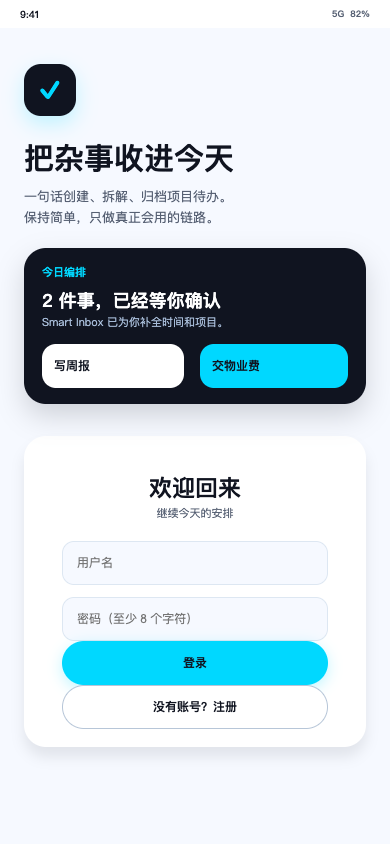
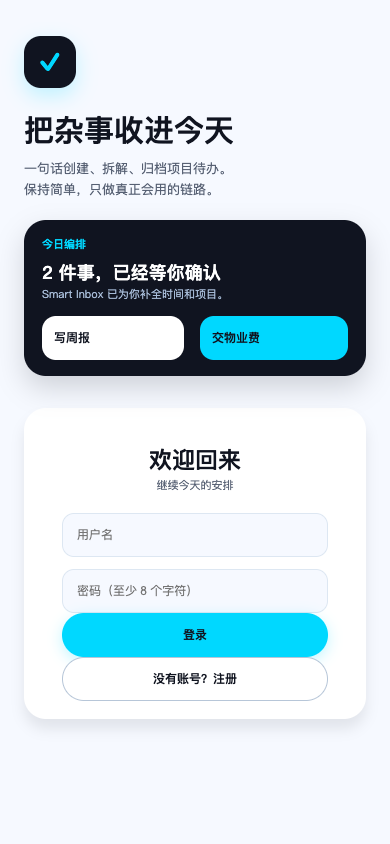
fix(ui): 移除正式页模拟手机状态栏

Changed region(s): [[0.0615, 0.0, 0.9538, 0.6161], [0.0923, 0.6161, 0.9231, 0.8626], [0.8615, 0.0, 0.9538, 0.0308]]

diff --git a/tests/e2e/h2-ui-feedback.spec.ts b/tests/e2e/h2-ui-feedback.spec.ts
@@ -6,21 +6,12 @@ async function fillTaroField(page: Page, label: string, value: string): Promise<
 
 test.use({ viewport: { width: 390, height: 844 } });
 
-test('H2 审查反馈中的文字、分隔与任务行布局可见且居中', async ({ page }) => {
+test('正式页面不显示模拟状态栏，文字、分隔与任务行布局可见且居中', async ({ page }) => {
   test.setTimeout(60_000);
   await page.goto('/');
   const origin = new URL(page.url()).origin;
 
-  const statusBarOffset = await page.locator('.ei-status-bar').evaluate((bar) => {
-    const text = bar.firstElementChild;
-    if (!(text instanceof HTMLElement)) return Number.POSITIVE_INFINITY;
-    const barBounds = bar.getBoundingClientRect();
-    const textBounds = text.getBoundingClientRect();
-    return Math.abs(
-      textBounds.top + textBounds.height / 2 - (barBounds.top + barBounds.height / 2),
-    );
-  });
-  expect(statusBarOffset).toBeLessThanOrEqual(0.5);
+  await expect(page.locator('.ei-status-bar')).toHaveCount(0);
 
   const loginInputOffset = await page.getByLabel('用户名').evaluate((control) => {
     const input = control.querySelector('input');
@@ -40,10 +31,29 @@ test('H2 审查反馈中的文字、分隔与任务行布局可见且居中', as
   const suffix = Date.now().toString(36);
   await page.getByRole('button', { name: '注册新账号' }).click();
   await expect(page.getByText('创建账号', { exact: true })).toBeVisible();
+  await expect(page.locator('.ei-status-bar')).toHaveCount(0);
   await fillTaroField(page, '用户名', `visual_${suffix}`);
   await fillTaroField(page, '密码', 'valid-password');
   await page.getByRole('button', { name: '注册并登录' }).click();
   await expect(page.getByRole('button', { name: '管理项目' })).toBeVisible();
+  await expect(page.locator('.ei-status-bar')).toHaveCount(0);
+  const taskPageLayout = await page.evaluate(() => {
+    const addButton = document.querySelector('.addButton');
+    const scroll = document.querySelector('.productionScroll');
+    return {
+      addTop: addButton?.getBoundingClientRect().top,
+      horizontalOverflow:
+        document.documentElement.scrollWidth > document.documentElement.clientWidth,
+      scrollHeight: scroll?.getBoundingClientRect().height,
+      viewportHeight: window.innerHeight,
+    };
+  });
+  expect(taskPageLayout).toEqual({
+    addTop: 24,
+    horizontalOverflow: false,
+    scrollHeight: 844,
+    viewportHeight: 844,
+  });
 
   const projectName = `视觉项目中的超长名称${suffix.slice(-4)}`;
   const projectResponse = await page.request.post('/api/v1/projects', {
@@ -114,6 +124,10 @@ test('H2 审查反馈中的文字、分隔与任务行布局可见且居中', as
   expect(rowVisuals?.titleRightGap).toBeGreaterThanOrEqual(0);
   expect(rowVisuals?.titleTruncated).toBe(true);
   expect(rowVisuals?.projectTruncated).toBe(true);
+  await page.screenshot({
+    animations: 'disabled',
+    path: 'docs/quality/screenshots/status-bar-removed-task-home-390x844.png',
+  });
 
   await page.getByRole('button', { name: '新增待办' }).click();
   await expect(page.getByLabel('待办描述').locator('textarea')).toBeVisible();

diff --git a/apps/client/src/components/auth-screen.tsx b/apps/client/src/components/auth-screen.tsx
@@ -1,5 +1,5 @@
 import { loginWithUsernameSchema, registerWithUsernameSchema } from '@ai-schedule/contracts';
-import { AppShell, ElectricButton, StatusBar } from '@ai-schedule/ui';
+import { AppShell, ElectricButton } from '@ai-schedule/ui';
 import { useMutation } from '@tanstack/react-query';
 import { Form, Input, Text, View } from '@tarojs/components';
 import { useState } from 'react';
@@ -89,7 +89,6 @@ export function AuthScreen({ mode }: { mode: AuthMode }) {
 
   return (
     <AppShell className={`loginScreen ${isRegister ? 'registerScreen' : ''}`}>
-      <StatusBar />
       <View className="loginHero">
         <View aria-hidden className="brandMark">
           ✓

diff --git a/apps/client/src/components/task-home-screen.tsx b/apps/client/src/components/task-home-screen.tsx
@@ -11,7 +11,6 @@ import {
   ElectricButton,
   NeutralPressButton,
   SmartInboxCard,
-  StatusBar,
   TaskRow,
   UndoToast,
 } from '@ai-schedule/ui';
@@ -372,7 +371,6 @@ export function TaskHomeScreen() {
 
   return (
     <AppShell className="todoScreen productionTodoScreen">
-      <StatusBar />
       <View className="productionScroll">
         <View className="editorialHeader">
           <Text className="dateLabel">{dateLabel(timeZone)}</Text>

diff --git a/apps/client/src/components/production-screens.scss b/apps/client/src/components/production-screens.scss
@@ -250,10 +250,14 @@
 }
 
 .productionScroll {
-  height: calc(100dvh - 28px);
+  height: 100dvh;
   padding-bottom: calc(112px + env(safe-area-inset-bottom));
   overflow-y: auto;
   overscroll-behavior: contain;
+}
+
+.productionTodoScreen .addButton {
+  top: 24px;
 }
 
 .productionTimeline {

diff --git a/tasks/current.md b/tasks/current.md
@@ -1,5 +1,7 @@
 # 当前任务
 
+> 2026-10-04：正式 H5 已移除登录/注册页和任务首页顶部的模拟手机系统状态栏，并回收任务滚动区原先预留的 28px 高度；H1 历史原型保持不变。客户端单测 89/89、lint、typecheck、build 及定向正式 H5 E2E 1/1 通过，页面实测无横向溢出。详见[专项验收](../docs/quality/2026-10-04-remove-simulated-status-bar.md)。仍停留 T24。
+
 > 2026-10-04：Agent 状态恢复专项收口：关闭 Proposal 不再推进业务版本；Smart Inbox 不再复活已替代的历史失败记录；FAILED 计划统一执行七天过期预检；完整 E2E 改用真实业务 Service 创建隔离 Session，消除注册限流对全量运行的干扰；明确写操作的 Prompt 选择规则。全仓集成 12/12、完整 E2E 34/34、真实 DeepSeek 3/3 与当前 `10087` 页面数据核对均通过。详见[专项验收](../docs/quality/2026-10-04-agent-state-recovery-acceptance.md)。仍停留 T24。
 
 > 2026-10-03：按用户反馈扩展 Agent 多轮与异常恢复测试，修复计划状态失真、失败重生成、未保存确认、编辑失败丢输入、关闭后重开、首页进度不刷新及关闭重生成导致版本冲突。真实模型七类 Action 与回复/计划 Smoke 2/2 通过；复验详见[多轮与异常恢复专项](../docs/quality/2026-10-03-agent-multiturn-resilience.md)。仍停留 T24。
@@ -29,6 +31,7 @@
 
 ## 当前结论
 
+- 正式登录/注册页和任务首页不再渲染 `StatusBar`；任务内容区使用完整动态视口，加号同步上移，未改变 H1 历史原型组件和业务逻辑。
 - 前轮 V01 只修正了文字层级，没有解决 Action 与 PLAN 的展示结构混淆。本轮已将通用 Action 放入对话卡；PLAN 独立浮层保留编辑、重试和直接创建。Action 追问取消、确认回执、整理单项移除、删除三秒撤销及关闭重开草稿已经过正式 H5 用例验证。
 - V01 中提案摘要、任务、序号及状态的异常字号已修复；计划行中间标题获得主要宽度，“编辑”文字保持 44px 热区且不再竖排。对照 Production V3 保留文字编辑入口；详见[专项复验](../docs/quality/2026-09-30-mobile-v01-revalidation.md)。
 - 用户反馈正式 Agent 输入页与 H1 原型样式不同。已修复正式页示例按钮、输入框与内层 textarea，并补齐正式入口三视口、边缘聚焦、禁用与示例填入、压缩视口及 axe 证据；本次不修改原型。

diff --git a/docs/quality/2026-10-04-remove-simulated-status-bar.md b/docs/quality/2026-10-04-remove-simulated-status-bar.md
@@ -1,0 +1,29 @@
+# 正式 H5 模拟状态栏移除验收
+
+## 变更范围
+
+- 登录、注册和任务首页不再渲染模拟手机系统状态栏，不再展示 `9:41`、`5G` 和 `82%`。
+- 任务滚动区由 `100dvh - 28px` 恢复为完整 `100dvh`，顶部加号同步上移 28px，消除状态栏移除后的无效留白。
+- 共享 `StatusBar` 及 H1 历史原型保持不变；认证、任务、Agent 请求和操作逻辑未修改。
+
+## 正式页面复核
+
+在 `http://127.0.0.1:10087/#/pages/tasks/index` 重新加载构建产物后检查：
+
+- `.ei-status-bar` 数量为 0，页面正文不含模拟状态文字。
+- 内容区与应用壳高度均为当前视口高度，加号顶部为 24px。
+- 文档宽度未超过可视宽度。
+
+更新后的 390 × 844 自动化截图：[登录页](screenshots/h2-login-390x844.png)、[任务首页](screenshots/status-bar-removed-task-home-390x844.png)、[任务编辑背景](screenshots/h2-task-form-390x844.png)。
+
+## 实际执行结果
+
+| 检查                     | 结果                                       |
+| ------------------------ | ------------------------------------------ |
+| Client unit              | 16 个文件、89/89 通过                      |
+| Client lint              | 通过                                       |
+| Client typecheck         | 通过                                       |
+| Client H5 build          | 825 modules，构建通过                      |
+| `h2-ui-feedback.spec.ts` | 1/1 通过；登录页与任务页均断言无模拟状态栏 |
+
+本次未运行完整 E2E、服务端测试、集成测试或真实模型 Smoke；变更只涉及正式 H5 的展示结构和对应验收证据。T24 人工审查状态不变。

diff --git a/tasks/todo.md b/tasks/todo.md
@@ -10,6 +10,8 @@
 
 ## 当前验收事项
 
+- [x] 正式 H5 移除模拟手机系统状态栏：登录/注册与任务首页不再显示 `9:41 / 5G / 82%`，任务内容区回收 28px 预留高度；见[专项验收](../docs/quality/2026-10-04-remove-simulated-status-bar.md)。H1 历史原型与 T24 门禁不变。
+
 - [x] Agent 状态恢复收口：跨标签关闭不打断重生成、旧失败记录不再占据 Inbox、失败计划过期不预留积分或派发；完整自动化与正式 H5 真实模型验收通过。见[专项验收](../docs/quality/2026-10-04-agent-state-recovery-acceptance.md)。
 
 - [x] Agent 多轮与异常恢复专项：扩展功能测试、修复计划/Action 状态及处理中恢复；真实模型七类 Action 验证通过。见[专项复验](../docs/quality/2026-10-03-agent-multiturn-resilience.md)。
